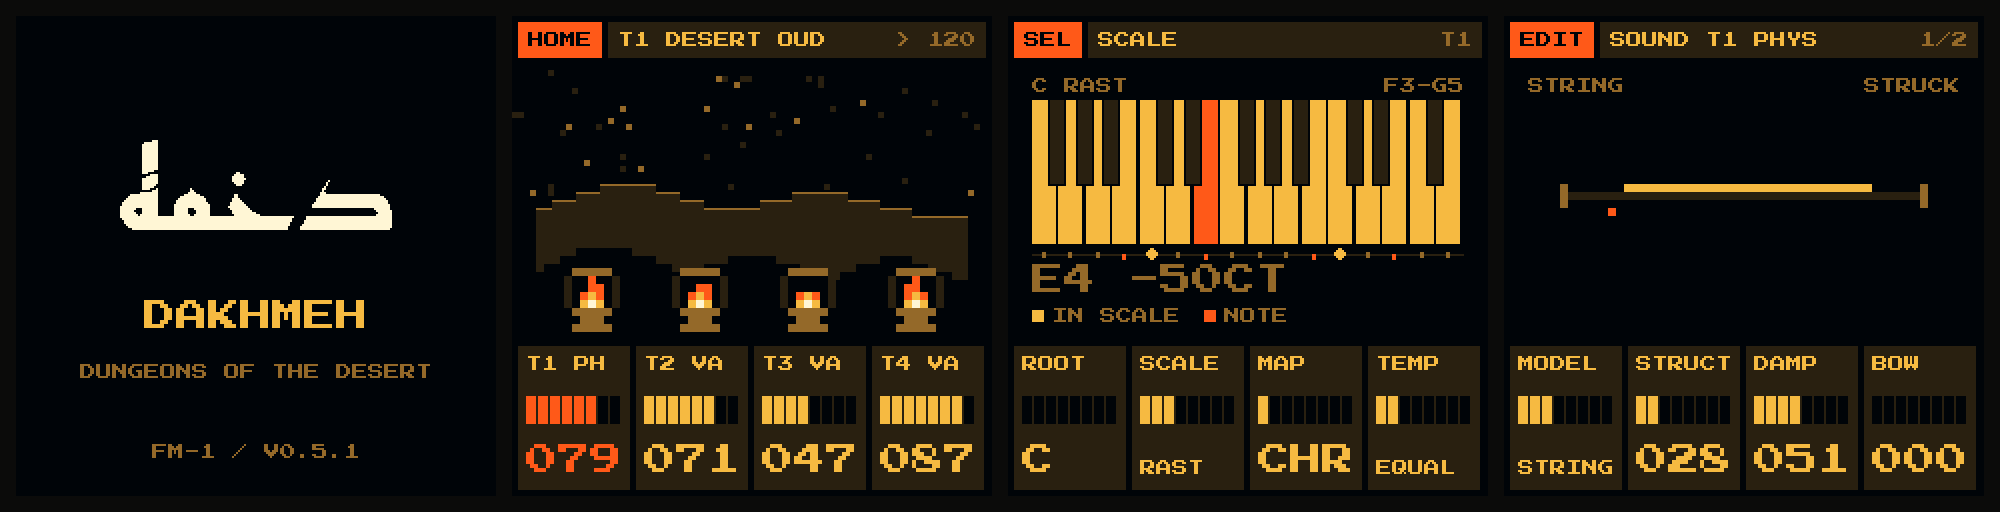
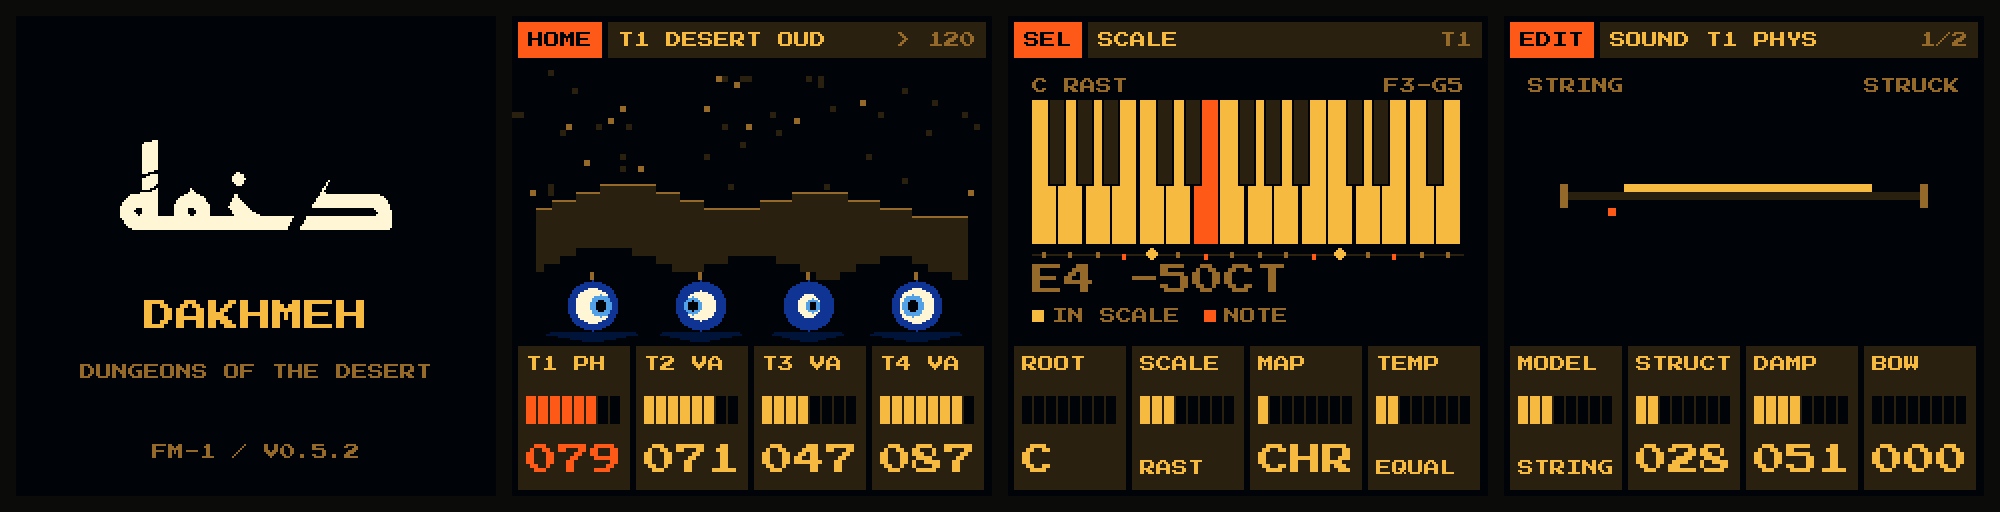
Hang a cheshm nazar a track on HOME
The 4 px oil lamps were two bars and a blob. In their place the glass
eye against the evil eye, one a track, drawn at 1 px as row runs: it
opens with the level and the peak, blinks on its own time while silent,
and its pupil darts while the track sounds. Two glass blues and a dark
one of their own: the DESERT palette has no blue, and the nazar is the
one cold thing in the picture.

Changed region(s): [[0.279, 0.5, 0.496, 0.6875]]

diff --git a/firmware/src/ui.c b/firmware/src/ui.c
@@ -530,17 +530,24 @@ static int ui_in(int32_t x, int32_t y, int32_t w, int32_t h)   /* does (x, y, w,
  * lit, from the main loop: what the audio ISR left in vis_pk, vis_lr (its peaks). Only what changed is drawn.
  *   stars: the sky's pixels, a few at a time brighten to light and fade back; more of them the louder it is
  *   dunes: a far ridge (dark) and a near one (black), still
- *   lanterns: one a track, standing on the near sand. LEVEL the most its flame can be (muted, LEVEL 0: out, the
- *   glass dark); a silent track's burns low, a shape now and then; a sounding one's grows with its peak, dances (a
- *   row up or down) and flickers (three shapes, uneven) */
+ *   nazars (cheshm nazar): a glass eye a track, hung over the near sand. LEVEL the most it can open (muted, LEVEL 0:
+ *   dead glass); a silent track's is open a little and blinks now and then; a sounding one's white and iris widen
+ *   with its peak and its pupil wanders. The eyes are the one cold thing in the picture: their own glass blues */
 #define NSTAR 46u
-#define LN_Y 126                                /* the lanterns: their top; track t's left edge LN_X(t); 7 x LN_ROWS cells
+#define NZ_Y 132                                /* the eyes: the disc's top; track t's left edge NZ_X(t); NZ_D px across
                                                  * (the slabs under them name the tracks) */
-#define LN_X(t) (26 + (t) * 54)
-#define LN_ROWS 8
+#define NZ_X(t) (27 + (t) * 54)
+#define NZ_D 26
+#define NZ_HALO_H 5                             /* the pool of light under an open eye: rows below the disc */
+#define NZ_GLASS RGB(18, 52, 150)               /* cobalt */
+#define NZ_IRIS RGB(80, 160, 225)               /* the sky in it */
+#define NZ_DARK RGB(6, 20, 60)                  /* the glass in the dark */
+#define NZ_BLINK_N 6u                           /* frames of a blink: the lid down over three, up over three */
 static uint8_t sk_x[NSTAR], sk_y[NSTAR], sk_b[NSTAR], sk_ph[NSTAR], sk_ok;   /* a star: where, M (else D), its sparkle's
                                                  * frame (0: none) */
-static uint8_t cn_h[NT], cn_s[NT], cn_n[NT];    /* a lantern: its flame's rows (0: out), shape, frames to its next shape */
+static uint8_t cn_h[NT], cn_s[NT], cn_n[NT];    /* an eye: how open (0: dead .. 4), its gaze (0 .. 4: the pupil NZ_GAZE), frames to
+                                                 * its next gaze */
+static uint8_t cn_b[NT], cn_bn[NT];             /* an eye: its blink's frame (0: open), frames to its next blink */
 static uint32_t an_rng = 0x2545F491u, an_e[NT], an_n;
 static uint32_t an_rnd(uint32_t n)
 {
@@ -580,30 +587,59 @@ static void pic_dunes(void)
         ui_rect(x, yn, 4, 164 - yn, UI_K);
     }
 }
-static void pic_lantern(int32_t t)              /* lantern t, 4 px a cell: an oil lamp, its glass 5 x 4 cells with
-                                                 * the flame (cn_h rows from the wick, shape cn_s), dark glass around it */
+/* the eye, row by row: the disc NZ_D across, its centre between pixels, so everything is measured in half pixels
+ * from it (X = 2 x + 1 - NZ_D): a ring of radius r2 half pixels holds the pixels with X^2 + Y^2 <= r2^2. How open
+ * (cn_h, 0 .. 4) sets the white, the iris and the pupil; the gaze moves the iris and pupil sideways */
+static const uint8_t NZ_WHITE[5] = {0, 9, 12, 15, 18};      /* the white's radius, half pixels (0: dead glass) */
+static const uint8_t NZ_IRIS_R[5] = {0, 5, 7, 9, 11};
+static const uint8_t NZ_PUPIL[5] = {0, 3, 4, 5, 6};
+static const int8_t NZ_GAZE[5] = {-4, -2, 0, 2, 4};         /* the pupil's offset a gaze, pixels */
+static int32_t nz_half(int32_t r2, int32_t Y)   /* the largest X with X^2 + Y^2 <= r2^2 (-1: the row is outside) */
 {
-    static const char *const FLAME[3][4] = {{"..a..", ".aaa.", ".ala.", ".lwl."}, {"..a..", "..aa.", ".ala.", ".lwl."},
-                                            {"..a..", ".aa..", ".ala.", ".lwl."}};
-    static const char *const FRAME[LN_ROWS] = {".mmmmm.", "d.....d", "d.....d", "d.....d", "d.....d", ".mmmmm.", "..mmm..",
-                                               ".mmmmm."};
-    int32_t x = LN_X(t), y = LN_Y, r, c, h = cn_h[t];
-    if (!ui_in(x, y, 28, 32)) return;
-    ui_sprite(x, y, 4, FRAME, LN_ROWS);
-    for (r = 0; r < 4; r++)
-        for (c = 0; c < 5; c++) {
-            char ch = r >= 4 - h ? FLAME[cn_s[t] % 3u][r][c] : '.';
-            ui_rect(x + 4 + c * 4, y + 4 + r * 4, 4, 4, ch == '.' ? UI_K : ui_col(ch));
-        }
+    int32_t q = r2 * r2 - Y * Y, X;
+    if (q < 0) return -1;
+    for (X = 0; (X + 2) * (X + 2) <= q; X += 2) {}
+    return X;
 }
-static void pic_home(void)                      /* Main: the stars, the dunes, a lantern a track */
+static void nz_run(int32_t x, int32_t y, int32_t r2, int32_t Y, int32_t dx, uint16_t col)   /* the pixels of ring r2 on
+                                                 * row Y, centred dx pixels right of the disc's */
+{
+    int32_t X = nz_half(r2, Y);
+    if (X < 0) return;
+    ui_rect(x + NZ_D / 2 + dx - (X + 1) / 2, y, X + 1, 1, col);   /* X half pixels each side: X + 1 pixels */
+}
+static void pic_nazar(int32_t t)
+{
+    int32_t x = NZ_X(t), y = NZ_Y, h = cn_h[t], gz = NZ_GAZE[cn_s[t] % 5u], b = cn_b[t], r, w2 = NZ_WHITE[h];
+    int32_t lid = b ? -w2 + (int32_t)(b > 3u ? NZ_BLINK_N - b : b) * (2 * w2 + 2) / 3 : -w2 - 1;   /* the lid's
+                                                 * lower edge, half pixels (rows above it are glass) */
+    if (!ui_in(x - 20, y - 4, NZ_D + 40, NZ_D + 4 + NZ_HALO_H)) return;
+    if (h) {                                    /* the pool of light on the sand, wider the more open */
+        int32_t hw = NZ_D + 8 + 6 * h;
+        for (r = 0; r < NZ_HALO_H; r++) {
+            int32_t w = hw * (NZ_HALO_H - r) / NZ_HALO_H;
+            w = r == 0 ? hw * 3 / 4 : w;        /* (the top row narrow: it tucks under the disc) */
+            ui_rect(x + NZ_D / 2 - w / 2, y + NZ_D + r, w, 1, NZ_DARK);
+        }
+    }
+    ui_rect(x + NZ_D / 2 - 1, y - 4, 2, 4, UI_M);   /* the cord */
+    for (r = 0; r < NZ_D; r++) {
+        int32_t Y = 2 * r + 1 - NZ_D;
+        nz_run(x, y + r, NZ_D - 1, Y, 0, h ? NZ_GLASS : NZ_DARK);
+        if (!h || Y < lid) continue;
+        nz_run(x, y + r, w2, Y, 0, UI_W);
+        nz_run(x, y + r, NZ_IRIS_R[h], Y, gz, NZ_IRIS);
+        nz_run(x, y + r, NZ_PUPIL[h], Y, gz, UI_K);
+    }
+}
+static void pic_home(void)                      /* Main: the stars, the dunes, an eye a track */
 {
     uint32_t i;
     int32_t t;
     if (!sk_ok) sk_init();
     for (i = 0; i < NSTAR; i++) ui_rect(sk_x[i] * 3, 27 + sk_y[i] * 3, 3, 3, sk_col(i));
     pic_dunes();
-    for (t = 0; t < (int32_t)NT; t++) pic_lantern(t);
+    for (t = 0; t < (int32_t)NT; t++) pic_nazar(t);
 }
 static void ui_pic_draw(void);
 static void ui_home_part(int32_t x, int32_t y, int32_t w, int32_t h) { ui_region(x, y, w, h, UI_K, ui_pic_draw); }
@@ -617,26 +653,28 @@ static void ui_home_frame(int draw)             /* a frame of HOME's picture (dr
     loud = loud > 256u ? 256u : loud;
     if (!sk_ok) sk_init();
 
-    for (t = 0; t < NT; t++) {                  /* the lanterns */
+    for (t = 0; t < NT; t++) {                  /* the eyes */
         uint32_t e = pk[t] / 96u, lv = trk[t].level <= 0 || (trk_quiet >> t & 1u) ? 0u : (ui_pc(trk[t].level) + 24u) / 25u;
-        uint32_t h, s = cn_s[t], lo = lv < 2u ? lv : 2u;
+        uint32_t h, s = cn_s[t], b = cn_b[t], lo = lv < 2u ? lv : 2u;
         e = e > 256u ? 256u : e;
         an_e[t] = e >= an_e[t] ? e : an_e[t] - (an_e[t] + 5u) / 6u;   /* (up at once, down over ~0.3 s) */
-        if (an_e[t] < 6u) h = lo;               /* (silent: low) */
+        if (an_e[t] < 6u) h = lo;               /* (silent: open a little) */
         else {
             h = lo + ((lv - lo) * an_e[t] + 128u) / 256u;
-            if (!an_rnd(3) && h < lv) h++;      /* (the dance) */
+            if (!an_rnd(3) && h < lv) h++;      /* (it widens and narrows with the sound) */
             else if (!an_rnd(4) && h > lo) h--;
         }
-        if (!cn_n[t] || !--cn_n[t]) {           /* (a new shape, at uneven times: sounding often, silent seldom) */
-            s = (s + 1u + an_rnd(2)) % 3u;
-            cn_n[t] = (uint8_t)(an_e[t] >= 6u ? 1u + an_rnd(3) : 6u + an_rnd(14));
+        if (!cn_n[t] || !--cn_n[t]) {           /* (a new gaze, held a while: sounding, it darts; silent, it rests) */
+            s = an_e[t] >= 6u ? an_rnd(5) : 2u + an_rnd(3) - 1u;
+            cn_n[t] = (uint8_t)(an_e[t] >= 6u ? 4u + an_rnd(12) : 30u + an_rnd(60));
         }
-        if (h != cn_h[t] || (s != cn_s[t] && h > 2u)) {
-            cn_h[t] = (uint8_t)h, cn_s[t] = (uint8_t)s;
-            if (draw) ui_home_part(LN_X((int32_t)t) + 4, LN_Y + 4, 20, 16);
+        if (b) b = b >= NZ_BLINK_N ? 0u : b + 1u;   /* (a blink under way) */
+        else if (!cn_bn[t]) cn_bn[t] = (uint8_t)(20u + an_rnd(150));   /* (the first: each eye its own time) */
+        else if (!--cn_bn[t]) b = 1u, cn_bn[t] = (uint8_t)(50u + an_rnd(120));   /* (3 .. 9 s apart) */
+        if (h != cn_h[t] || s != cn_s[t] || b != cn_b[t]) {
+            cn_h[t] = (uint8_t)h, cn_s[t] = (uint8_t)s, cn_b[t] = (uint8_t)b;
+            if (draw) ui_home_part(NZ_X((int32_t)t) - 20, NZ_Y, NZ_D + 40, NZ_D + NZ_HALO_H);
         }
-        cn_s[t] = (uint8_t)s;
     }
 
     for (i = 0; i < NSTAR; i++)                 /* the stars: the sparkling ones on; new ones (louder: more) */

diff --git a/tools/capture_screens.c b/tools/capture_screens.c
@@ -24,7 +24,7 @@ int main(void)
     for(k=0;k<100;k++)app_audio(audio,VB);
     shot("desert-oud",PG_SOUND);
     trk[1].level=90;trk[2].level=60;trk[3].level=110;shot("home",PG_HOME);
-    for(k=0;k<NT;k++)an_e[k]=256;cn_s[1]=1;cn_s[3]=2;shot("home",PG_HOME);   /* (the lanterns burning) */
+    for(k=0;k<NT;k++)an_e[k]=256;cn_s[0]=4;cn_s[1]=0;cn_s[3]=1;shot("home",PG_HOME);   /* (the eyes open, looking about) */
     shot("mixer",PG_MIX1);                       /* (its meters: the peaks since the page opened) */
     note_on(0,7,60,SRC_KEY,0,-1,127);note_on(1,9,62,SRC_KEY,0,-1,100);
     for(k=0;k<12;k++)app_audio(audio,VB);

diff --git a/docs/screens/dakhmeh/README.md b/docs/screens/dakhmeh/README.md
@@ -4,7 +4,7 @@ Captured from the firmware renderer. Native resolution: 240 × 240. Shown at 2×
 
 | Splash | Home |
 | --- | --- |
-| ![Persian splash](splash.png) | ![Home: the dunes, a lantern a track](home.png) |
+| ![Persian splash](splash.png) | ![Home: the dunes, a nazar a track](home.png) |
 | Desert oud | Mixer |
 | ![Desert oud](desert-oud.png) | ![Mixer, its meters](mixer.png) |
 | Maqam Rast | Tashriq |
